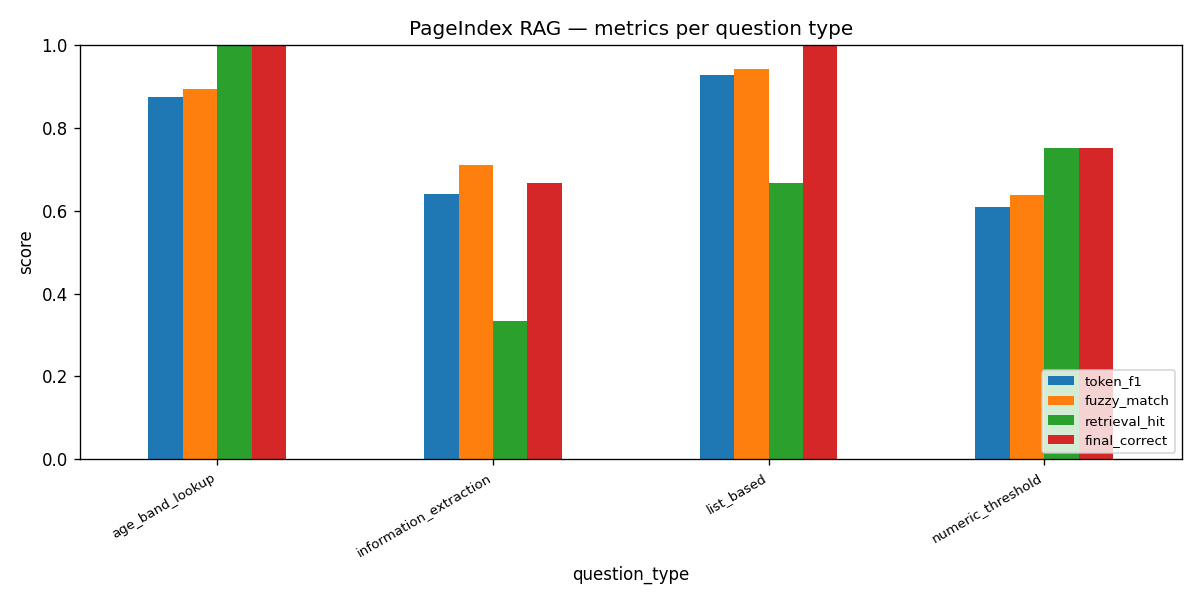
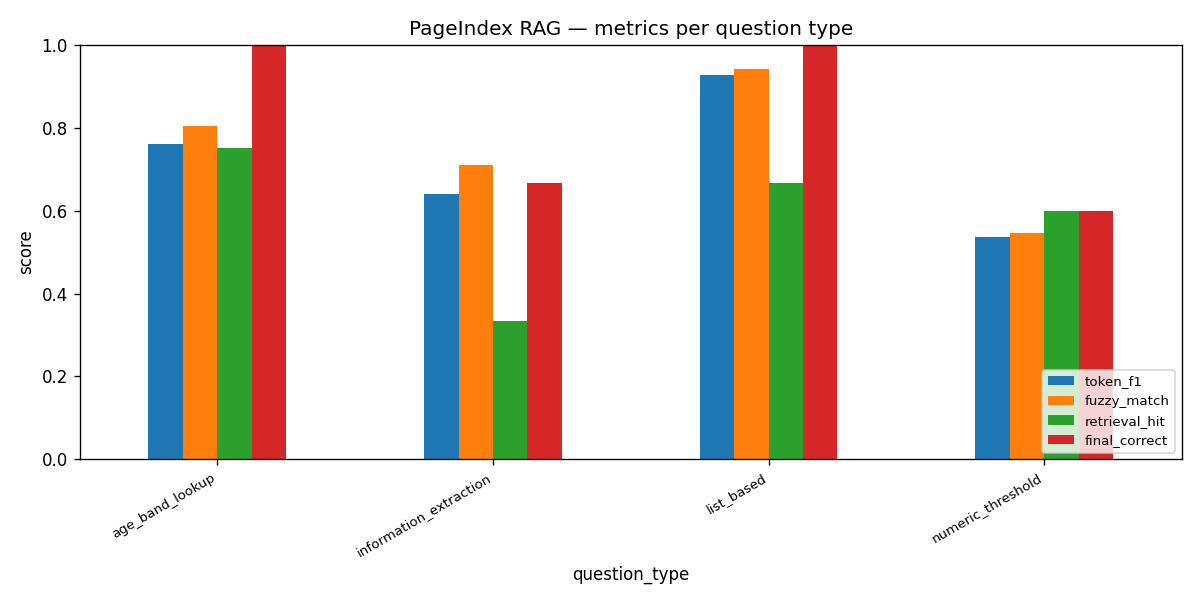
Fix transient-vs-quota error handling; extend eval to 15/45
The LLM client conflated 503 (overloaded) with 429 (quota): a transient 5xx on
gemini-2.5-flash was treated as a daily-cap hit and fell back to gemini-2.0-flash
(limit 0 on the free tier), aborting the whole run on a momentary spike.

- split into QuotaExhausted (429) vs TransientError (5xx)
- retry both (6 attempts, exp backoff); fall back to a secondary model only on a true
  quota error, and only when a distinct one is configured
- retrieval and the eval runner propagate both cleanly so the run halts without writing
  a wrong "0" row and resumes on re-run

Results: colorectal complete (9/9), breast 6/9 -> 15/45 overall.

Changed region(s): [[0.8017, 0.24, 0.925, 0.42], [0.1233, 0.06, 0.2158, 0.27]]

diff --git a/src/llm/gemini_client.py b/src/llm/gemini_client.py
@@ -56,15 +56,23 @@ def _get_client() -> "genai.Client":
 
 
 class QuotaExhausted(Exception):
-    """Raised when a model returns a 429/ResourceExhausted error."""
+    """Raised when a model returns a 429 / ResourceExhausted (daily or rate quota)."""
 
 
-def _is_retryable_error(exc: Exception) -> bool:
-    """True for transient errors worth retrying: quota (429) and server hiccups (500/503)."""
+class TransientError(Exception):
+    """Raised on a server-side hiccup (500/503/overloaded) — worth retrying, but NOT a
+    quota wall, so it must never trigger a model fallback or end a run prematurely."""
+
+
+def _raise_classified(exc: Exception) -> None:
+    """Re-raise a provider error as QuotaExhausted (429) or TransientError (5xx); pass
+    anything else through unchanged."""
     msg = str(exc).lower()
-    keywords = ("429", "quota", "resource exhausted", "rate limit",
-                "500", "503", "unavailable", "overloaded", "internal error")
-    return any(k in msg for k in keywords)
+    if any(k in msg for k in ("429", "quota", "resource exhausted", "rate limit")):
+        raise QuotaExhausted(str(exc)) from exc
+    if any(k in msg for k in ("500", "503", "unavailable", "overloaded", "internal error")):
+        raise TransientError(str(exc)) from exc
+    raise exc
 
 
 # ---------------------------------------------------------------------------
@@ -92,9 +100,9 @@ def _write_cache(path: Path, value: Any) -> None:
 # Public API
 # ---------------------------------------------------------------------------
 @retry(
-    retry=retry_if_exception_type(QuotaExhausted),
+    retry=retry_if_exception_type((QuotaExhausted, TransientError)),
     wait=wait_exponential(multiplier=2, min=4, max=60),
-    stop=stop_after_attempt(4),
+    stop=stop_after_attempt(6),
     reraise=True,
 )
 def _call_model(model_name: str, prompt: str, temperature: float) -> str:
@@ -107,10 +115,8 @@ def _call_model(model_name: str, prompt: str, temperature: float) -> str:
             config=types.GenerateContentConfig(temperature=temperature),
         )
         return resp.text or ""
-    except Exception as exc:  # noqa: BLE001 - normalize quota errors for retry
-        if _is_retryable_error(exc):
-            raise QuotaExhausted(str(exc)) from exc
-        raise
+    except Exception as exc:  # noqa: BLE001 - classify into quota vs transient for retry
+        _raise_classified(exc)
 
 
 def generate(
@@ -132,11 +138,14 @@ def generate(
     try:
         text = _call_model(primary, prompt, temperature)
     except QuotaExhausted:
-        # Primary daily cap hit -> try the fallback model once.
-        if primary != config.GEMINI_FALLBACK_MODEL:
-            text = _call_model(config.GEMINI_FALLBACK_MODEL, prompt, temperature)
+        # Primary daily cap hit -> try the fallback model once (if a distinct one is set).
+        fb = config.GEMINI_FALLBACK_MODEL
+        if fb and fb != primary:
+            text = _call_model(fb, prompt, temperature)
         else:
             raise
+    # TransientError propagates: a 5xx blip is not a quota wall, and the fallback model
+    # may be just as overloaded (or unavailable on free tier).
 
     if use_cache:
         _write_cache(cache_file, text)
@@ -144,9 +153,9 @@ def generate(
 
 
 @retry(
-    retry=retry_if_exception_type(QuotaExhausted),
+    retry=retry_if_exception_type((QuotaExhausted, TransientError)),
     wait=wait_exponential(multiplier=2, min=4, max=60),
-    stop=stop_after_attempt(4),
+    stop=stop_after_attempt(6),
     reraise=True,
 )
 def _call_multimodal(model_name: str, prompt: str, images: list[bytes], mime_type: str, temperature: float) -> str:
@@ -160,10 +169,8 @@ def _call_multimodal(model_name: str, prompt: str, images: list[bytes], mime_typ
             config=types.GenerateContentConfig(temperature=temperature),
         )
         return resp.text or ""
-    except Exception as exc:  # noqa: BLE001
-        if _is_retryable_error(exc):
-            raise QuotaExhausted(str(exc)) from exc
-        raise
+    except Exception as exc:  # noqa: BLE001 - classify into quota vs transient for retry
+        _raise_classified(exc)
 
 
 def generate_multimodal(
@@ -188,10 +195,12 @@ def generate_multimodal(
     try:
         text = _call_multimodal(primary, prompt, images, mime_type, temperature)
     except QuotaExhausted:
-        if primary != config.GEMINI_FALLBACK_MODEL:
-            text = _call_multimodal(config.GEMINI_FALLBACK_MODEL, prompt, images, mime_type, temperature)
+        fb = config.GEMINI_FALLBACK_MODEL
+        if fb and fb != primary:
+            text = _call_multimodal(fb, prompt, images, mime_type, temperature)
         else:
             raise
+    # TransientError propagates (see generate()).
 
     if use_cache:
         _write_cache(cache_file, text)

diff --git a/src/evaluation/run_eval.py b/src/evaluation/run_eval.py
@@ -20,7 +20,7 @@ import config
 from src.evaluation import judge as judge_mod
 from src.evaluation import metrics
 from src.generation.answer import answer_question
-from src.llm.gemini_client import QuotaExhausted
+from src.llm.gemini_client import QuotaExhausted, TransientError
 
 RAW_PATH = config.RESULTS_DIR / "raw_results.jsonl"
 
@@ -135,13 +135,19 @@ def run(*, limit: int | None = None) -> None:
         for i, row in enumerate(pending, 1):
             try:
                 rec = evaluate_row(row)
-            except QuotaExhausted as exc:
-                # Daily free-tier cap hit. Stop cleanly WITHOUT writing a row for this
-                # question so it is retried (not scored as 0) on the next run.
-                print(f"\n[quota] Daily Gemini quota reached at "
-                      f"{row['question_id']} ({len(done) + i - 1}/{len(qa)} done). "
-                      f"Re-run `python -m src.cli eval` after the quota resets to resume.")
-                print(f"[quota] detail: {str(exc)[:160]}")
+            except (QuotaExhausted, TransientError) as exc:
+                # Stop cleanly WITHOUT writing a row for this question so it is retried
+                # (not scored as 0) on the next run. Distinguish the two causes:
+                #   QuotaExhausted -> daily free-tier cap; wait for reset.
+                #   TransientError -> model overloaded (5xx); just re-run shortly.
+                reached = len(done) + i - 1
+                if isinstance(exc, QuotaExhausted):
+                    print(f"\n[quota] Daily Gemini quota reached at {row['question_id']} "
+                          f"({reached}/{len(qa)} done). Re-run after the quota resets to resume.")
+                else:
+                    print(f"\n[transient] Gemini overloaded (5xx) at {row['question_id']} "
+                          f"({reached}/{len(qa)} done). Re-run `python -m src.cli eval` shortly to resume.")
+                print(f"[detail] {str(exc)[:160]}")
                 halted = True
                 break
             fh.write(json.dumps(rec, ensure_ascii=False) + "\n")

diff --git a/src/retrieval/tree_search.py b/src/retrieval/tree_search.py
@@ -49,9 +49,9 @@ def search(slug: str, question: str, *, k: int | None = None) -> list[Retrieved]
 
     try:
         raw = gemini_client.generate_json(prompt)
-    except gemini_client.QuotaExhausted:
-        # Don't fabricate an empty retrieval on a quota wall — let the caller halt
-        # cleanly so the question is retried later instead of scored as a wrong "0".
+    except (gemini_client.QuotaExhausted, gemini_client.TransientError):
+        # Don't fabricate an empty retrieval on a quota wall or server hiccup — let the
+        # caller halt cleanly so the question is retried later instead of scored as a "0".
         raise
     except Exception:  # noqa: BLE001 - genuine parse/other error: degrade to no retrieval
         raw = []